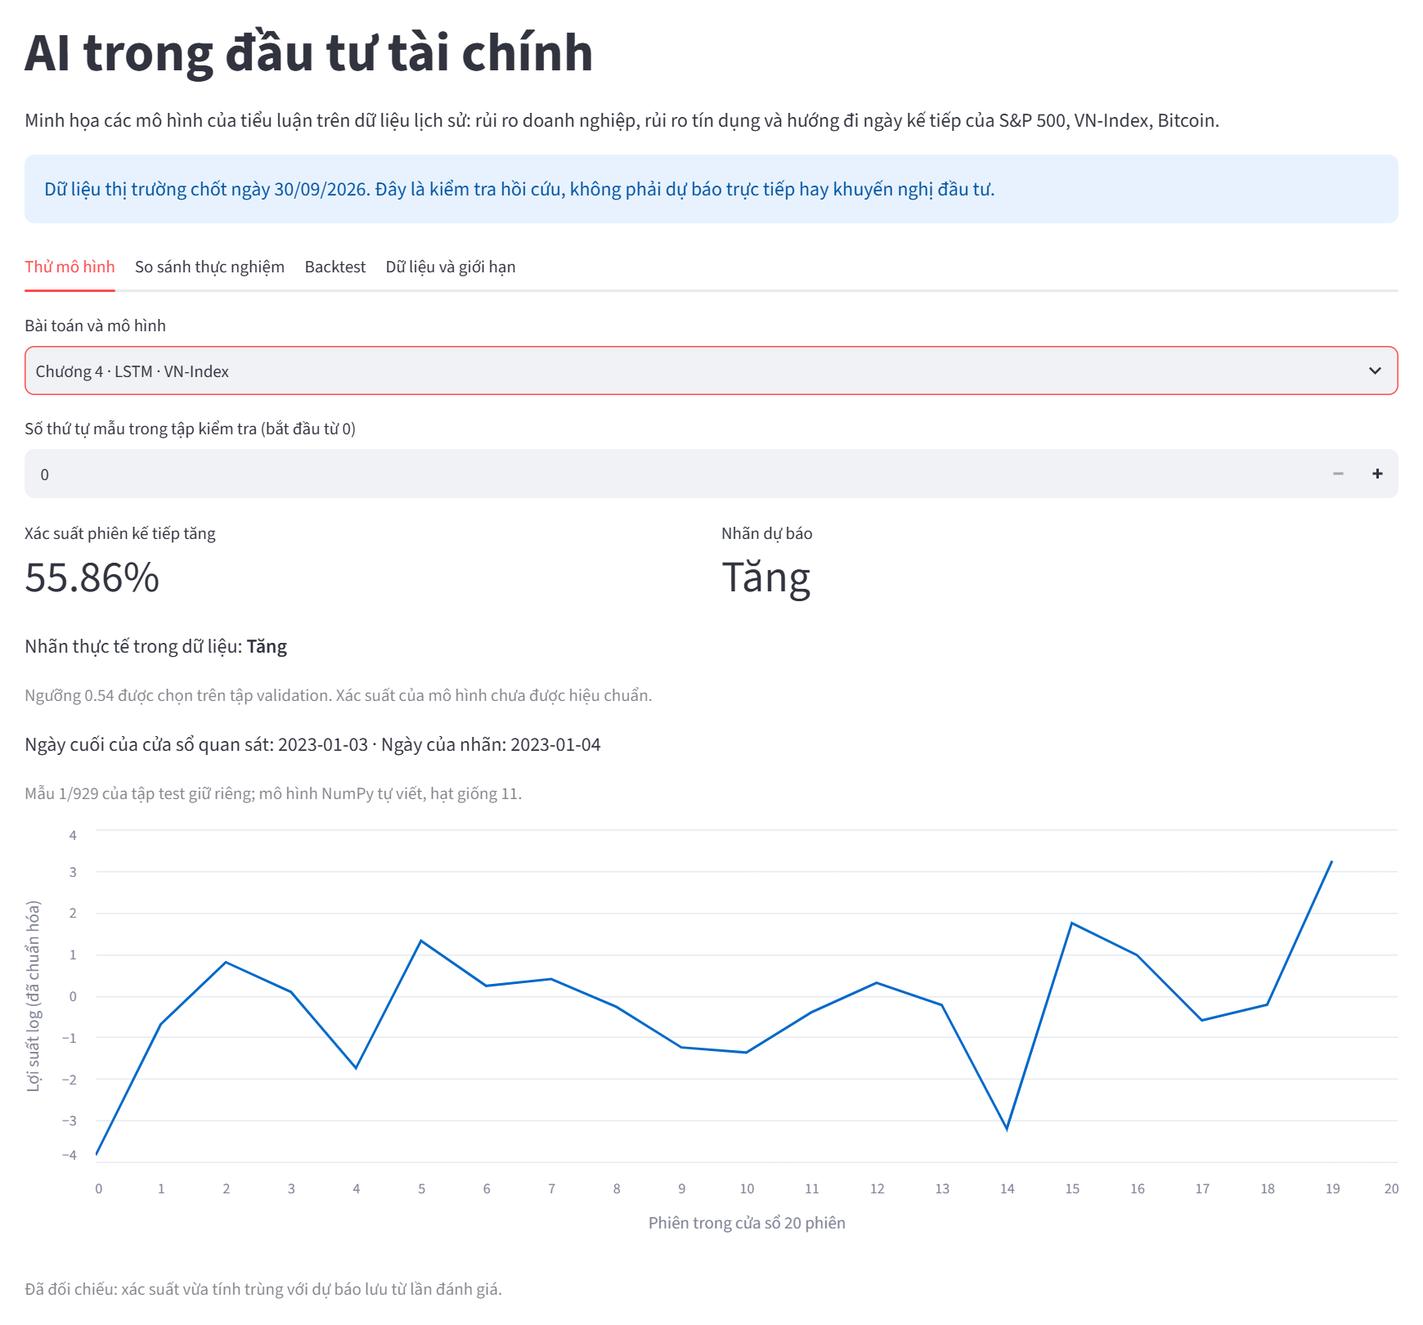
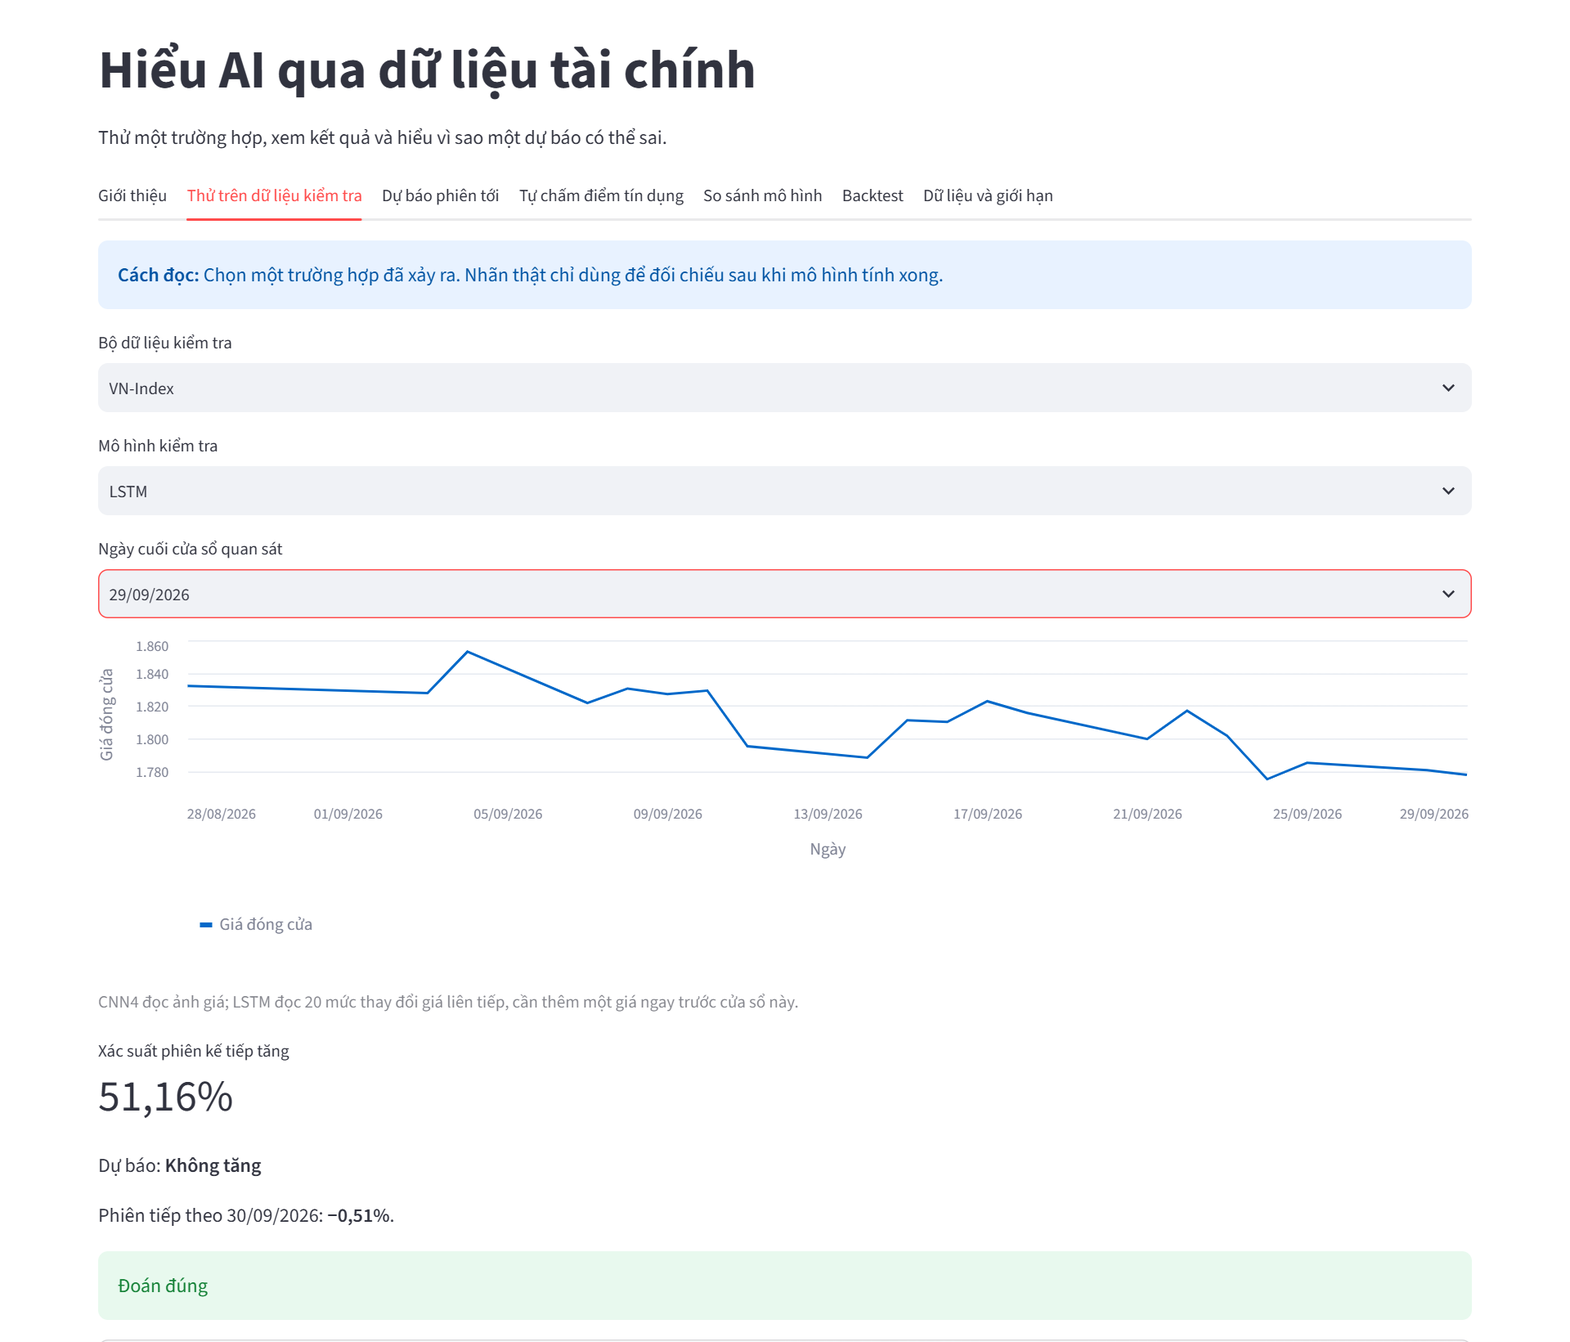
feat: update thesis report with interactive demo and verified deployment

diff --git a/scripts/tieuluan/build_report.py b/scripts/tieuluan/build_report.py
@@ -141,6 +141,10 @@ def market_frame(key):
 
 def compute_values(res: Results) -> dict:
     v = {}
+    app_assets = json.loads((ROOT / 'data/tieuluan/app/metadata.json').read_text(encoding='utf-8'))
+    v['app.credit.threshold'] = vn_pct(app_assets['datasets']['credit_default']['threshold'])
+    app_check = json.loads((ROOT / 'data/tieuluan/app/verification.json').read_text(encoding='utf-8'))
+    v['app.peak_memory_mb'] = vn(app_check['peak_working_set_mb'], 1)
     inv, an = res.inventory, res.analysis
     for key in MARKETS + TABULAR:
         s = inv[key]["splits"]
@@ -1141,7 +1145,9 @@ class Writer:
         p.paragraph_format.page_break_before = True
         self.table([["Viết tắt", "Tiếng Anh", "Nghĩa tiếng Việt"]] + abbreviations)
 
-    def references_section(self):
+    def references_section(self, following_text=""):
+        # Phụ lục nằm sau danh mục nhưng nguồn của nó vẫn cần có trong danh mục.
+        self.resolve_citations(following_text)
         self.heading("TÀI LIỆU THAM KHẢO", 1, new_page=True)
         for n, key in enumerate(self.cited, 1):
             p = self.doc.add_paragraph()
@@ -1218,7 +1224,7 @@ def build():
             appendix_text = text
             continue
         w.markdown(text, first_heading_new_page=(path != files[0]))
-    w.references_section()
+    w.references_section(appendix_text or "")
     if appendix_text:
         w.markdown(appendix_text)
     out = DOCS / f"{NAME}.docx"

diff --git a/scripts/tieuluan/package_demo.py b/scripts/tieuluan/package_demo.py
@@ -79,10 +79,11 @@ app_port: 7860
 pinned: false
 ---
 
-# Minh họa AI tài chính trên dữ liệu lịch sử
+# Hiểu AI qua dữ liệu tài chính
 
-Ứng dụng kiểm tra mô hình NumPy trên các mẫu test giữ riêng. Không phải khuyến nghị giao dịch.
-Ngày chốt dữ liệu thị trường: 30/09/2026. Xem UPLOAD_GUIDE.md để chạy và tải lên Space.
+Ứng dụng đối chiếu mô hình NumPy trên tập kiểm tra, tải giá mới để dự báo phiên tới và nhận hồ sơ tín dụng.
+Không phải khuyến nghị đầu tư. Dữ liệu thực nghiệm chốt 30/09/2026; giá trực tiếp có ngày cập nhật riêng.
+Xem UPLOAD_GUIDE.md để chạy và tải lên Space.
 Gói được chuẩn bị cục bộ, chưa xuất bản. Xem DATA_SOURCES.md trước khi chia sẻ công khai.
 SHA256_MANIFEST.json ghi hash của từng tệp tại thời điểm đóng gói.
 ''', encoding='utf-8')

diff --git a/tests/test_tieuluan_report.py b/tests/test_tieuluan_report.py
@@ -1,0 +1,14 @@
+"""Nguồn chỉ được trích dẫn trong Phụ lục vẫn phải xuất hiện trong danh mục."""
+from scripts.tieuluan.build_report import Writer
+
+
+def test_appendix_only_reference_is_in_bibliography():
+    writer = Writer({'main': 'Nguồn chương chính', 'appendix': 'Nguồn dữ liệu trực tiếp'})
+    writer.markdown('# CHƯƠNG 1\n\nNội dung [@main].')
+    appendix = '# PHỤ LỤC\n\nDữ liệu mới [@appendix].'
+    writer.references_section(appendix)
+    writer.markdown(appendix)
+    paragraphs = [p.text for p in writer.doc.paragraphs]
+    bibliography = paragraphs[paragraphs.index('TÀI LIỆU THAM KHẢO')+1:paragraphs.index('PHỤ LỤC')]
+    assert any('[2]' in p and 'Nguồn dữ liệu trực tiếp' in p for p in bibliography)
+    assert 'Dữ liệu mới [2].' in paragraphs

diff --git a/scripts/tieuluan/check_app_browser.py b/scripts/tieuluan/check_app_browser.py
@@ -73,6 +73,7 @@ def main():
         for preset in ['Ít rủi ro hơn · phân vị 10%','Ở giữa · phân vị 50%','Nhiều rủi ro hơn · phân vị 90%']:
             choose('Hồ sơ mẫu theo xác suất trong tập kiểm tra',preset)
             page.get_by_role('button',name='Chấm điểm hồ sơ',exact=True).click(); ready()
+            page.get_by_text('Xác suất vỡ nợ tháng tới',exact=True).wait_for()
             assert 'Xác suất vỡ nợ tháng tới' in page.locator('body').inner_text()
         capture('credit')
         tab('So sánh mô hình')

diff --git a/docs/tieuluan/chapters/06_phu_luc.md b/docs/tieuluan/chapters/06_phu_luc.md
@@ -34,27 +34,41 @@ Bảng A.1. Trình tự tái lập toàn bộ kết quả (chạy từ thư mụ
 Bước 3 chạy trên CPU; tổng thời gian huấn luyện của {{v:n_trained}} lượt là khoảng 9 phút. Mỗi bản ghi lưu kèm hạt giống, cấu hình, lịch sử huấn luyện và "dấu vân tay" của lần chạy; file results/tieuluan/full/run_manifest.json ghi mã băm SHA-256 của dữ liệu đã xử lý và của mã nguồn tạo ra kết quả, nên có thể kiểm tra một con số trong báo cáo đến từ phiên bản dữ liệu và mã nào. Bước 7 tính lại toàn bộ {{v:audit.records}} bản ghi từ dự báo đã lưu và nạp lại {{v:audit.reloaded}} mô hình đã huấn luyện; xác suất dự báo lại {{v:audit.match}} file đã lưu. Mỗi notebook ở bước 8 huấn luyện lại hạt giống 11 bằng cả ba cách cài đặt ngay trong notebook và tái lập đúng ROC-AUC đã báo cáo. Các kiểm thử tự động, gồm kiểm tra gradient, kiểm tra không rò rỉ dữ liệu qua ranh giới thời gian và kiểm tra ứng dụng minh họa, được chạy bằng lệnh:
 
 ```text
-.venv\Scripts\python.exe -m pytest tests/test_tieuluan.py tests/test_tieuluan_app.py -q
+.venv\Scripts\python.exe -m pytest tests/test_tieuluan.py tests/test_tieuluan_app.py tests/test_tieuluan_live.py tests/test_tieuluan_credit.py -q
 ```
 
 ## Phụ lục B. Ứng dụng minh họa và triển khai
 
-Ứng dụng web được viết bằng Streamlit, gồm bốn thẻ: **Thử mô hình** chạy mô hình NumPy tự viết trên một mẫu bất kỳ của tập test và đối chiếu với dự báo đã lưu (Hình B.1); **So sánh thực nghiệm** tổng hợp {{v:n_records}} bản ghi theo mô hình và cách cài đặt; **Backtest** vẽ giá trị danh mục của các chiến lược (Hình B.2); **Dữ liệu và giới hạn** nêu nguồn dữ liệu và các lưu ý khi đọc kết quả. Ứng dụng chỉ đọc kết quả đã lưu: không huấn luyện lại, không chọn lại ngưỡng, và chỉ cần ba thư viện NumPy, pandas, Streamlit.
+Ứng dụng Streamlit dành cho người chưa học tài chính, gồm bảy thẻ, mỗi thẻ có ô “Cách đọc”. **Giới thiệu** giải thích hai bài toán và kết luận chính; **Thử trên dữ liệu kiểm tra** chọn ngày hoặc hồ sơ thật để đối chiếu dự báo; **Dự báo phiên tới** tải giá mới; **Tự chấm điểm tín dụng** nhận thông tin người dùng nhập; **So sánh mô hình** tổng hợp {{v:n_records}} bản ghi và biểu đồ ROC-AUC, với vạch đoán mò; **Backtest** mô phỏng vốn bằng tiền trước, sau phí; **Dữ liệu và giới hạn** giải thích nguồn và phạm vi sử dụng. Ứng dụng không huấn luyện lại và không thay đổi kết quả Chương 2–4.
 
-![Hình B.1. Thẻ "Thử mô hình": LSTM tự viết dự báo một mẫu VN-Index của tập test và tự đối chiếu với dự báo đã lưu.](../../figures/tieuluan/appendix_demo_app.png)
+**Đối chiếu lịch sử.** Chọn thị trường, CNN4 hoặc LSTM và ngày cuối cửa sổ; biểu đồ hiển thị giá đóng cửa theo ngày thật, dự báo được so với biến động phiên tiếp theo (Hình B.1). Với dữ liệu bảng, chọn hoặc lấy ngẫu nhiên một dòng kiểm tra, xem thông tin gốc và kết quả thật. Ảnh GASF và vector chuẩn hóa nằm trong phần mở rộng; dự báo NumPy hạt giống 11 được đối chiếu với xác suất đã lưu.
 
-![Hình B.2. Thẻ "Backtest": giá trị danh mục trên tập test của VN-Index và bảng chỉ số trước, sau phí.](../../figures/tieuluan/appendix_demo_backtest.png)
+![Hình B.1. Chọn ngày để đối chiếu dự báo LSTM với diễn biến phiên tiếp theo của VN-Index.](../../figures/tieuluan/appendix_demo_app.png){w=12}
 
-Ứng dụng được triển khai thành một dịch vụ web miễn phí trên Render [@render_free]. Render lấy mã trực tiếp từ kho GitHub công khai của tiểu luận, và tự cài đặt, khởi động lại ứng dụng mỗi khi có mã mới trên nhánh `main`. Gói miễn phí có 512 MB bộ nhớ; dịch vụ tự "ngủ" sau 15 phút không có truy cập và mất khoảng một phút để thức dậy ở lượt truy cập kế tiếp. Các bước triển khai:
+**Dự báo phiên tới.** Nút tải lấy giá ngày từ Yahoo Finance cho S&P 500 và Bitcoin [@yahoo_live2026], dự phòng lần lượt FRED [@fred_live2026] và Coinbase Exchange [@coinbase_live2026]; VN-Index dùng SSI iBoard [@ssi_live2026], dự phòng DNSE [@dnse_live2026]. Giao diện ghi nguồn thực tế, phiên cuối và giờ cập nhật Việt Nam (Hình B.2). Chỉ dùng phiên đã đóng cửa: bỏ phiên hôm nay trước 15:00 giờ Việt Nam với VN-Index, trước 16:30 giờ New York với S&P 500 và bỏ nến ngày UTC hiện tại với Bitcoin. UTC là giờ quốc tế, chậm hơn Việt Nam bảy giờ. Cần ít nhất 21 giá hợp lệ; giá quá cũ được cảnh báo, lỗi mạng không được thay bằng dữ liệu giả.
 
-1. Đăng nhập render.com, chọn **New → Web Service**, chọn thẻ **Public Git Repository**, dán địa chỉ kho mã GitHub của tiểu luận rồi bấm **Connect**.
-2. Chọn **Language: Python 3**, **Branch: main**, gói **Free**. Phiên bản Python 3.12 được khai báo sẵn trong file `.python-version` ở gốc kho mã.
-3. **Build Command:** `pip install -r deployment/tieuluan/requirements.txt` (chỉ gồm NumPy, pandas và Streamlit).
+LSTM nhận 20 lợi suất logarit, tức thay đổi giá trên thang logarit, với tham số chuẩn hóa của tập học; CNN4 nhận ảnh GASF của 20 giá cuối. Công thức và thứ tự ép kiểu được kiểm thử khớp đặc trưng thực nghiệm. Dự báo lấy trung bình xác suất ba hạt giống NumPy; ngưỡng và khoảng tin cậy ROC-AUC lấy từ analysis.json, vốn phân tích trung bình ba bản PyTorch gần tương đương NumPy. Độ chính xác cân bằng hiển thị là trung bình ba bản NumPy trên tập kiểm tra, không phải độ tin cậy riêng của phiên mới. Tải giá không cập nhật trọng số; nguồn dự phòng có thể khác nguồn huấn luyện.
+
+![Hình B.2. Dự báo phiên tới từ giá thật: nguồn, phiên cuối và xác suất của LSTM, CNN4.](../../figures/tieuluan/appendix_live.png){w=12}
+
+**Chấm điểm tín dụng.** Chọn một hồ sơ thật ở nhóm xác suất thấp, giữa hoặc cao trong tập kiểm tra, sửa hạn mức, tuổi, lịch sử trả nợ và số tiền rồi bấm chấm điểm (Hình B.3). Các thông tin khác nằm trong phần mở rộng. Đơn vị là Đài tệ (TWD), không phải VND; dữ liệu thuộc Đài Loan năm 2005. Mã trả nợ được giải thích cạnh biểu mẫu; hai mã −2 và 0 dùng diễn giải phổ biến nhưng không được tài liệu UCI gốc mô tả. MLP sử dụng đủ đặc trưng theo thứ tự gốc, điền thiếu và chuẩn hóa bằng tham số tập học, rồi lấy trung bình ba xác suất. Ngưỡng {{v:app.credit.threshold}} được chọn trước từ trung bình dự báo validation; tỷ lệ vỡ nợ chung để so sánh là {{v:positive_rate.credit_default}}. Ba mức thấp, trung bình, cao lần lượt ứng với xác suất dưới nửa ngưỡng, từ nửa ngưỡng đến dưới ngưỡng và từ ngưỡng trở lên; đây là quy ước minh họa chưa được kiểm định như thang tín dụng. Giới tính, tuổi và tình trạng hôn nhân có thể gây phân biệt đối xử nếu dùng để quyết định tín dụng thực tế; ứng dụng chỉ phục vụ học tập.
+
+![Hình B.3. Hồ sơ tín dụng thật làm mẫu cho biểu mẫu nhập và chấm điểm bằng MLP.](../../figures/tieuluan/appendix_credit.png){w=12}
+
+**Mô phỏng bằng tiền.** Backtest là thử cách mua bán trên dữ liệu quá khứ. Hình B.4 quy đổi về vốn ban đầu 100 triệu đồng, so sánh mua và giữ, theo mô hình và lặp lại hướng phiên trước; bảng trình bày số tiền trước, sau phí. Đây là vốn quy đổi để dễ đọc, không tính tỷ giá và không khẳng định có thể mua trực tiếp chỉ số. Mọi dự báo đều kèm kết quả lịch sử và câu “Không phải khuyến nghị đầu tư”; riêng S&P 500, Bitcoin nêu rõ không tốt hơn đoán mò trên giai đoạn kiểm tra.
+
+![Hình B.4. Backtest VN-Index diễn đạt bằng triệu đồng, với bảng kết quả trước và sau phí.](../../figures/tieuluan/appendix_demo_backtest.png){w=12}
+
+**Chạy và triển khai.** Tài nguyên nhẹ trong data/tieuluan/app được tạo trước bằng lệnh `.venv\Scripts\python.exe -m scripts.tieuluan.prepare_app_assets`; script đọc dữ liệu gốc theo chỉ số dòng kiểm tra, tính ngưỡng từ validation và lưu mẫu, tham số, thống kê. Máy chủ chỉ cài NumPy, pandas, Streamlit; không đọc Excel, không nạp thư viện huấn luyện. Tệp và mô hình có bộ nhớ đệm; giá tải mạng được giữ tối đa 30 phút. Nút tải lại xóa bộ nhớ đệm giá. Mỗi nguồn chờ tối đa chín giây mỗi lần, chỉ thử lại một lần.
+
+Ứng dụng đã được thử từ bản git archive trong môi trường Python sạch chỉ cài requirements triển khai: Edge đi qua các thẻ, lựa chọn mô hình, hồ sơ mẫu và dự báo mạng thật; đỉnh bộ nhớ tiến trình máy chủ đo bằng Get-Process là {{v:app.peak_memory_mb}} MB. Đây là phép đo trên Windows, không phải cam kết bộ nhớ cho mọi mức truy cập trên Render.
+
+Render lấy mã trực tiếp từ GitHub và tự triển khai khi nhánh main được cập nhật [@render_free]. Các bước:
+
+1. Đăng nhập render.com, chọn **New → Web Service → Public Git Repository**, dán địa chỉ kho mã ở Phụ lục A rồi bấm **Connect**.
+2. Chọn **Language: Python 3**, **Branch: main**, gói **Free**; Python 3.12 khai báo tại `.python-version`.
+3. **Build Command:** `pip install -r deployment/tieuluan/requirements.txt`.
 4. **Start Command:** `streamlit run deployment/tieuluan/app.py --server.port $PORT --server.address 0.0.0.0 --server.headless true`.
-5. Bấm **Create Web Service**, chờ trạng thái **Live** rồi mở địa chỉ dạng `https://<tên-dịch-vụ>.onrender.com`.
+5. Bấm **Create Web Service**, chờ **Live** rồi mở địa chỉ Render được cấp.
 
-Trước khi triển khai, ứng dụng được chạy thử trong một môi trường Python sạch chỉ có ba thư viện trên, từ đúng nội dung đã đẩy lên GitHub: cả tám lựa chọn mô hình và bốn thẻ đều hoạt động, bộ nhớ sử dụng dưới 200 MB. Kho mã vẫn giữ gói Docker cho Hugging Face Spaces (`scripts.tieuluan.package_demo`), nhưng từ tháng 7/2026 Space dạng Docker chỉ tạo được với tài khoản trả phí [@hf_spaces2026]. Để chạy tại máy, dùng lệnh dưới đây rồi mở địa chỉ http://localhost:8501:
-
-```text
-.venv\Scripts\python.exe -m streamlit run deployment/tieuluan/app.py
-```
+Gói Free có 512 MB bộ nhớ, ngủ sau 15 phút không truy cập; nên mở trước khi trình bày khoảng một phút. Gói Docker cho Hugging Face vẫn có thể tạo bằng `scripts.tieuluan.package_demo`, gồm tài nguyên và trọng số ba hạt giống. Chạy tại máy bằng `.venv\Scripts\python.exe -m streamlit run deployment/tieuluan/app.py`, rồi mở http://localhost:8501.

diff --git a/docs/tieuluan/APP_UPGRADE_PLAN.md b/docs/tieuluan/APP_UPGRADE_PLAN.md
@@ -3,16 +3,24 @@
 Đặc tả: yêu cầu A–E, kiểm thử và báo cáo do người dùng cung cấp ngày 06/10/2026.
 Thực hiện trực tiếp trong repo theo yêu cầu; không chạm các tệp trong manifest thực nghiệm.
 
-- [ ] Viết kiểm thử đối chiếu đặc trưng thị trường, tín dụng, suy luận và tải mạng giả lập.
-- [ ] Sinh tài nguyên nhỏ bằng `prepare_app_assets.py`: dòng gốc, tham số, ngưỡng validation, mẫu và thống kê.
-- [ ] Tạo `live.py`, `credit.py`: chỉ NumPy/pandas/requests/thư viện chuẩn; nạp mô hình tự viết.
-- [ ] Tổ chức bảy tab, cache đọc tệp/mô hình/mạng; tiếng Việt và định dạng số thống nhất.
-- [ ] Cập nhật Docker, gói Space; chạy pytest và AppTest cả gói.
-- [ ] Commit phạm vi nhiệm vụ, thử git archive với venv tối giản, Playwright, mạng thật và đo RAM.
-- [ ] Chụp hình, sửa Phụ lục B/Mở đầu/tài liệu tham khảo; build Word, kiểm tra trang và tham chiếu.
-- [ ] Kiểm toán manifest, rà soát diff, commit và push origin main.
+- [x] Viết kiểm thử đối chiếu đặc trưng thị trường, tín dụng, suy luận và tải mạng giả lập.
+- [x] Sinh tài nguyên nhỏ bằng `prepare_app_assets.py`: dòng gốc, tham số, ngưỡng validation, mẫu và thống kê.
+- [x] Tạo `live.py`, `credit.py`: chỉ NumPy/pandas/requests/thư viện chuẩn; nạp mô hình tự viết.
+- [x] Tổ chức bảy tab, cache đọc tệp/mô hình/mạng; tiếng Việt và định dạng số thống nhất.
+- [x] Cập nhật Docker, gói Space; chạy pytest và AppTest cả gói.
+- [x] Commit phạm vi nhiệm vụ, thử git archive với venv tối giản, Playwright, mạng thật và đo RAM.
+- [x] Chụp hình, sửa Phụ lục B/Mở đầu/tài liệu tham khảo; build Word, kiểm tra trang và tham chiếu.
+- [x] Kiểm toán manifest, rà soát diff và chuẩn bị các commit thuộc nhiệm vụ; tích hợp bằng push origin main theo yêu cầu (đối chiếu lịch sử Git).
 
 Điểm kiểm soát: không dùng nhãn test làm đầu vào; không đọc Excel trên máy chủ; chỉ dùng phiên đã đóng;
 nguồn dự phòng phải ghi tên thật; thiếu dữ liệu phải báo rõ; khoảng tin cậy lấy từ phân tích PyTorch đã lưu.
 Mô hình cache dùng khóa khi suy luận vì lớp NumPy giữ trạng thái trung gian.
-Địa chỉ Render và cách chia ba mức tín dụng đang được hỏi người dùng.
+Địa chỉ Render đã hỏi nhưng chưa được cung cấp; không suy đoán URL. Ba mức tín dụng dùng quy ước minh họa đã thông báo: dưới nửa ngưỡng, từ nửa ngưỡng đến dưới ngưỡng, từ ngưỡng trở lên.
+
+Bằng chứng: 41 kiểm thử ứng dụng/mô hình đạt; thêm kiểm thử danh mục nguồn Phụ lục đạt. Kiểm toán nạp lại 52 mô hình, sai số bằng 0, files_changed_since_run rỗng. Bản archive 808d69d chạy với requirements tối giản; Edge hoàn tất 37 bước và thử nhập tiền hợp lệ/sai. Đỉnh RAM ghi tại data/tieuluan/app/verification.json.
+
+Rà soát độc lập không tìm thấy lỗi chặn; đề nghị bổ sung kiểm thử luồng dự báo trực tiếp thành công đã thực hiện. Lỗi kiểm tra trình duyệt chờ quá ngắn đã sửa bằng chờ phần tử kết quả. Bộ dựng Word được sửa để nguồn chỉ trích dẫn trong Phụ lục có trong danh mục tham khảo.
+
+Word đã cập nhật mục lục: Mở đầu 4 trang; Chương 1: 8; Chương 2: 12; Chương 3: 11; Chương 4: 11; Phụ lục: 6. Đã soát PDF tạm: không còn chỗ giữ chỗ, mọi hình/bảng đánh số liên tục và được nhắc trong văn bản.
+
+Nghiệm thu cuối: 42 kiểm thử đạt. Gói Space cuối mở đủ bảy thẻ. Đã dừng hai máy chủ thử nghiệm và xóa thư mục tạm chứa archive, venv, PDF; Word cuối giữ tại đường dẫn báo cáo, không đưa vào Git.
